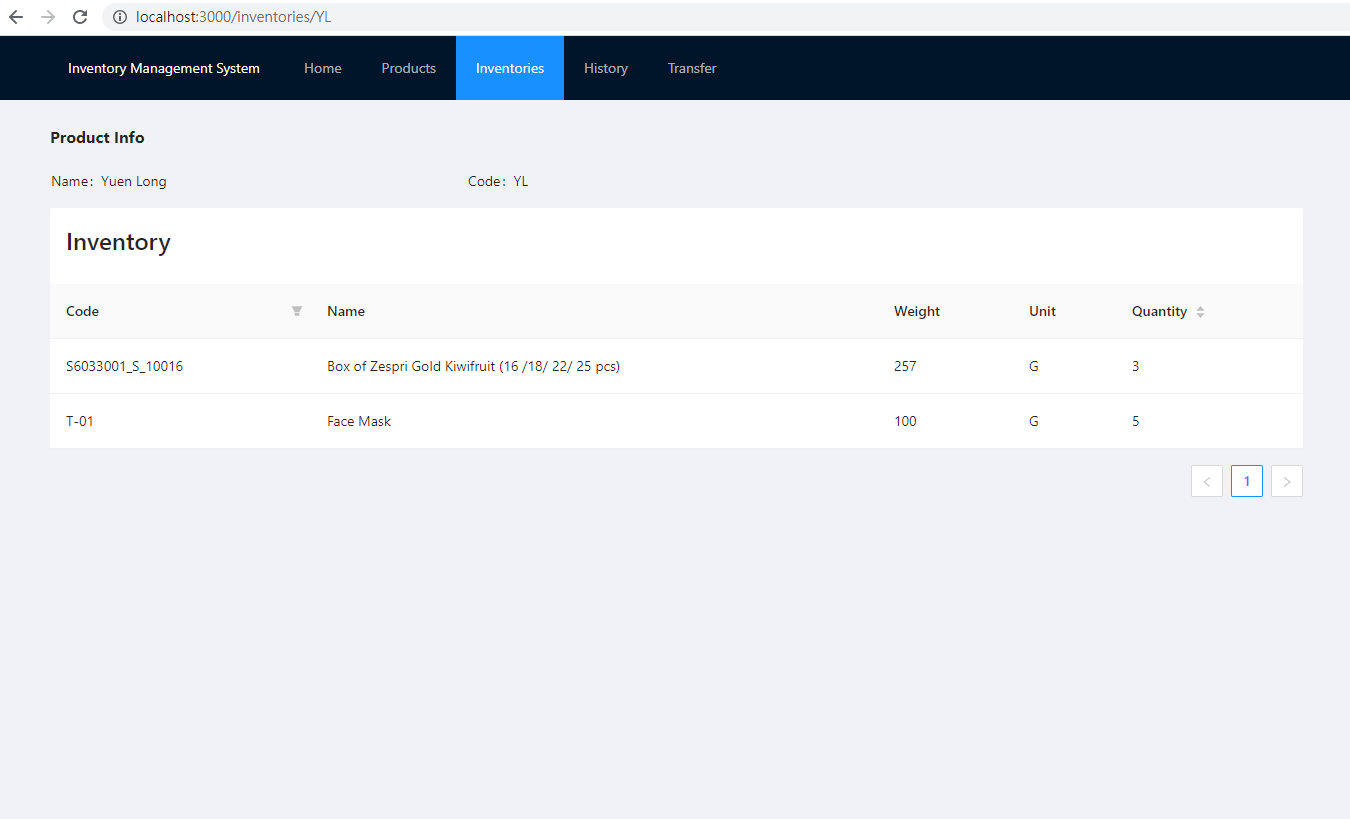
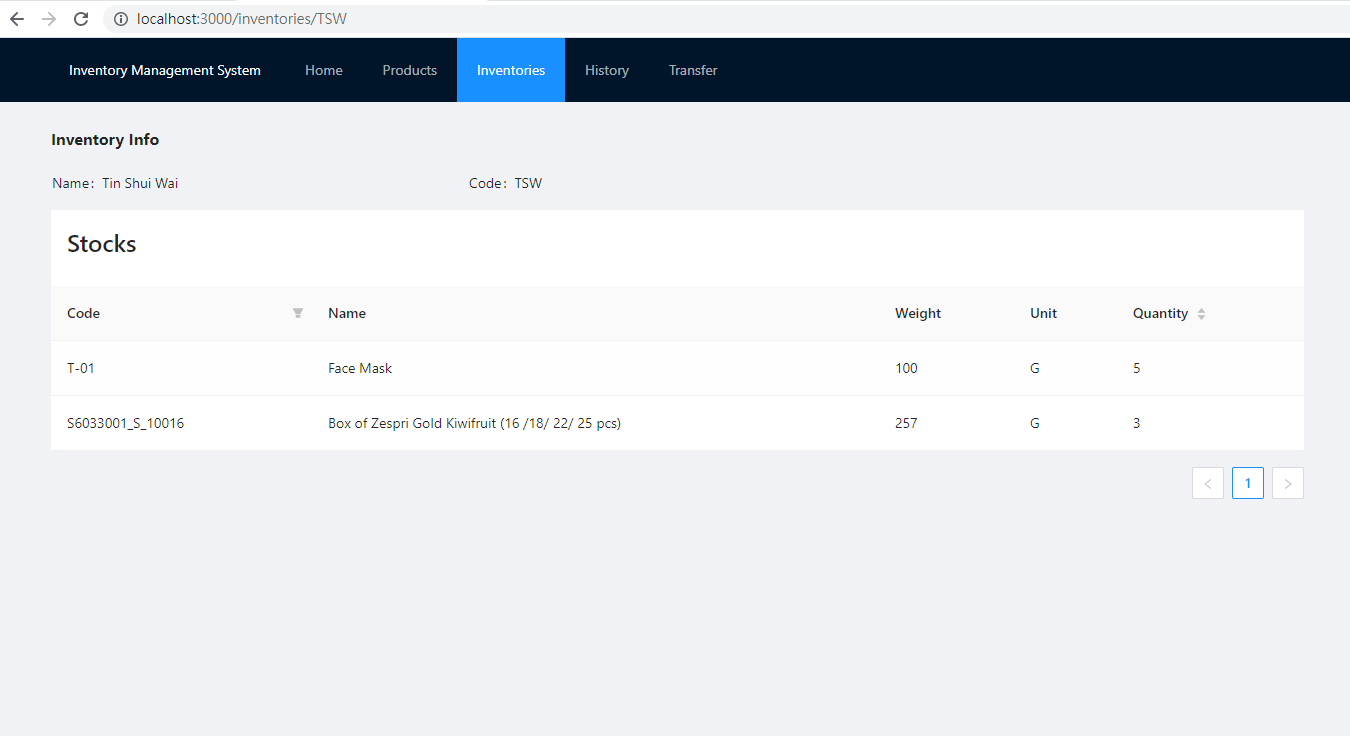
compile with docker image

diff --git a/web/src/pages/inventory/[id].tsx b/web/src/pages/inventory/[id].tsx
@@ -53,7 +53,10 @@ export const InventoryDetailsPage: React.FC = () => {
                     stocks,
                 }));
             })
-            .finally(() => setState((prev) => ({ ...prev, loading: false })));
+            .finally(() => {
+                setState((prev) => ({ ...prev, loading: false }));
+                setModel((prev) => ({ ...prev, visible: false, stock: null }));
+            });
     };
 
     const handleOnModelClick = (visible = false) =>
@@ -110,12 +113,12 @@ export const InventoryDetailsPage: React.FC = () => {
         <Empty />
     ) : (
         <>
-            <Descriptions title="Product Info">
+            <Descriptions title="Inventory Info">
                 <Descriptions.Item label="Name">{data?.name}</Descriptions.Item>
                 <Descriptions.Item label="Code">{data?.code}</Descriptions.Item>
             </Descriptions>
             <Table
-                title={() => <Title level={3}>Inventory</Title>}
+                title={() => <Title level={3}>Stocks</Title>}
                 loading={loading}
                 dataSource={stocks}
                 columns={columns}

diff --git a/web/src/pages/product/[id].tsx b/web/src/pages/product/[id].tsx
@@ -66,7 +66,7 @@ export const ProductDetailsPage: React.FC = () => {
                 </Descriptions.Item>
             </Descriptions>
             <Table
-                title={() => <Title level={3}>Stocks</Title>}
+                title={() => <Title level={3}>Inventory</Title>}
                 rowKey="id"
                 columns={columns}
                 dataSource={state.data?.stocks || []}

diff --git a/server/src/main/java/com/example/hktv_pretest/migrations/PrepareData.java b/server/src/main/java/com/example/hktv_pretest/migrations/PrepareData.java
@@ -2,8 +2,6 @@ package com.example.hktv_pretest.migrations;
 
 import com.example.hktv_pretest.entities.Inventory;
 import com.example.hktv_pretest.repositories.InventoryRepository;
-import com.example.hktv_pretest.repositories.ProductRepository;
-import com.example.hktv_pretest.repositories.StockRepository;
 
 import org.springframework.beans.factory.annotation.Autowired;
 import org.springframework.boot.context.event.ApplicationReadyEvent;

diff --git a/README.md b/README.md
@@ -1,7 +1,14 @@
-# Frameworks Using 
+# Frameworks Using
+
 Frontend: ReactJS with TypeScript  
 Backend: Spring Boot  
-Database: MySQL  
+Database: MySQL
+
+# Deploy JAR
+```bash
+$ cd server
+$ ./mvnw clean install -s .mvn/wrapper/settings.xml -DskipTests
+```
 
 # How to Compile With Docker
 
@@ -11,25 +18,78 @@ $ docker-compose up -d --build
 
 # Screenshots
 
+## Product List
+
+`Navbar -> Products` Or [Browser](http://localhost:3000/products)
+<img src="./screenshots/product-list.png" alt="product-list.png" />
+
+## Create Product Via Upload UI
+
+`Navbar -> Products -> Create Product(Button)`
+<img src="./screenshots/create-product.png" alt="create-product.png" />
+
+## Create Product Via Upload Csv
+
+`Navbar -> Products -> Upload CSV(Button)`
+<img src="./screenshots/upload-product-csv.png" alt="upload-product-csv.png" />
+
+## Check Product Stock
+
+`Navbar -> Products -> Click one of the row in the table` Or http://loaclhost:3000/products/productCode
+<img src="./screenshots/product-stock.png" alt="product-stock.png" />
+
+## Check Inventory List
+
+`Navbar -> Inventory`
+<img src="./screenshots/inventory-list.png" alt="inventory-list.png" />
+
+## Create Inventory Via UI
+
+`Navbar -> Inventory -> Create Inventory(Button)`
+<img src="./screenshots/create-inventory.png" alt="create-inventory.png" />
+
+## Add Product Quantity Via Uplaod Csv
+
+`Navbar -> Inventory -> Upload CSV(Button)`
+<img src="./screenshots/upload-product-to-inventory.png" alt="upload-product-to-inventory.png" />
+
+## List out inventory's stock
+
+`Navbar -> Inventory -> Click one of the row` or http://localhost:3000/inventories/inventoryCode or `Click one of the row in Check Product Stock`
+<img src="./screenshots/inventory-stock.png" alt="inventory-stock.png" />
+
+## Transfer the stock from one inventory to another via UI
+
+`Navbar -> Inventory -> Click one of the row -> Click one of the row`
+<img src="./screenshots/transfer-inventory-stock.png" alt="transfer-inventory-stock.png" />
+
+## Transfer History
+
+`Navbar -> Transfer`
+<img src="./screenshots/transfer-history.png" alt="transfer-history.png" />
+
+## Transfer the stock from one inventory to another via CSV
+`Navbar -> Transfer`
+<img src="./screenshots/transfer-csv.png" alt="transfer-csv.png" />
 
 # TODO List
 
-- [x] develop a light version Warehouse Inventory System
-- [x] able to store product data via csv file consumption.
-- [x] able to store quantities of such products in different locations via csv file consumption.
-- [x] UI to show inventory level of given product code
-- [x] able to transfer inventory from one location to another given amount of quantity and product code via UI
-- [x] able to transfer inventory from one location to another given amount of quantity and product code via upload Csv
+-   [x] develop a light version Warehouse Inventory System
+-   [x] able to store product data via csv file consumption.
+-   [x] able to store quantities of such products in different locations via csv file consumption.
+-   [x] UI to show inventory level of given product code
+-   [x] able to transfer inventory from one location to another given amount of quantity and product code via UI
+-   [x] able to transfer inventory from one location to another given amount of quantity and product code via upload Csv
 
 # Diary
 
 Since this is my first time to use Java Spring Boot to build the API Server, so i have used many time to study the techniques which is using in this project. For example: Jpa.
 
-- Day 1:  
-Create the Spring Boot Project, and try to create a Hello World API Controlelr.
+-   Day 1:  
+    Create the Spring Boot Project, and try to create a Hello World API Controlelr.
 
-- Day 2:  
-Connect with database and Create all RestController with Real Data and data validation.
+-   Day 2:  
+    Connect with database and Create all RestController with Real Data and data validation.
 
-- Day 3:  
-Create the React App and migrate the API as well as documentations.
+-   Day 3:  
+    Create the React App and migrate the API as well as documentations.

diff --git a/server/README.md b/server/README.md
@@ -115,3 +115,13 @@ Content-Type: application/json
 ```
 GET /stocks
 ```
+
+
+## Transfer stock from one inventory to another Via Csv
+```
+POST /transfer
+Accept: multipart/form-data
+Content-Type: multipart/form-data
+
+file = "<File>"
+```

diff --git a/web/README.md b/web/README.md
@@ -1,6 +1,10 @@
 # State Management
+
 This project is using `Redux` to do the state management.
 
+# API Base URL
+
+`./src/state/utils/axios` replace http://localhost:8080 to your baseURL and rebuild.
 
 # Available Scripts
 
